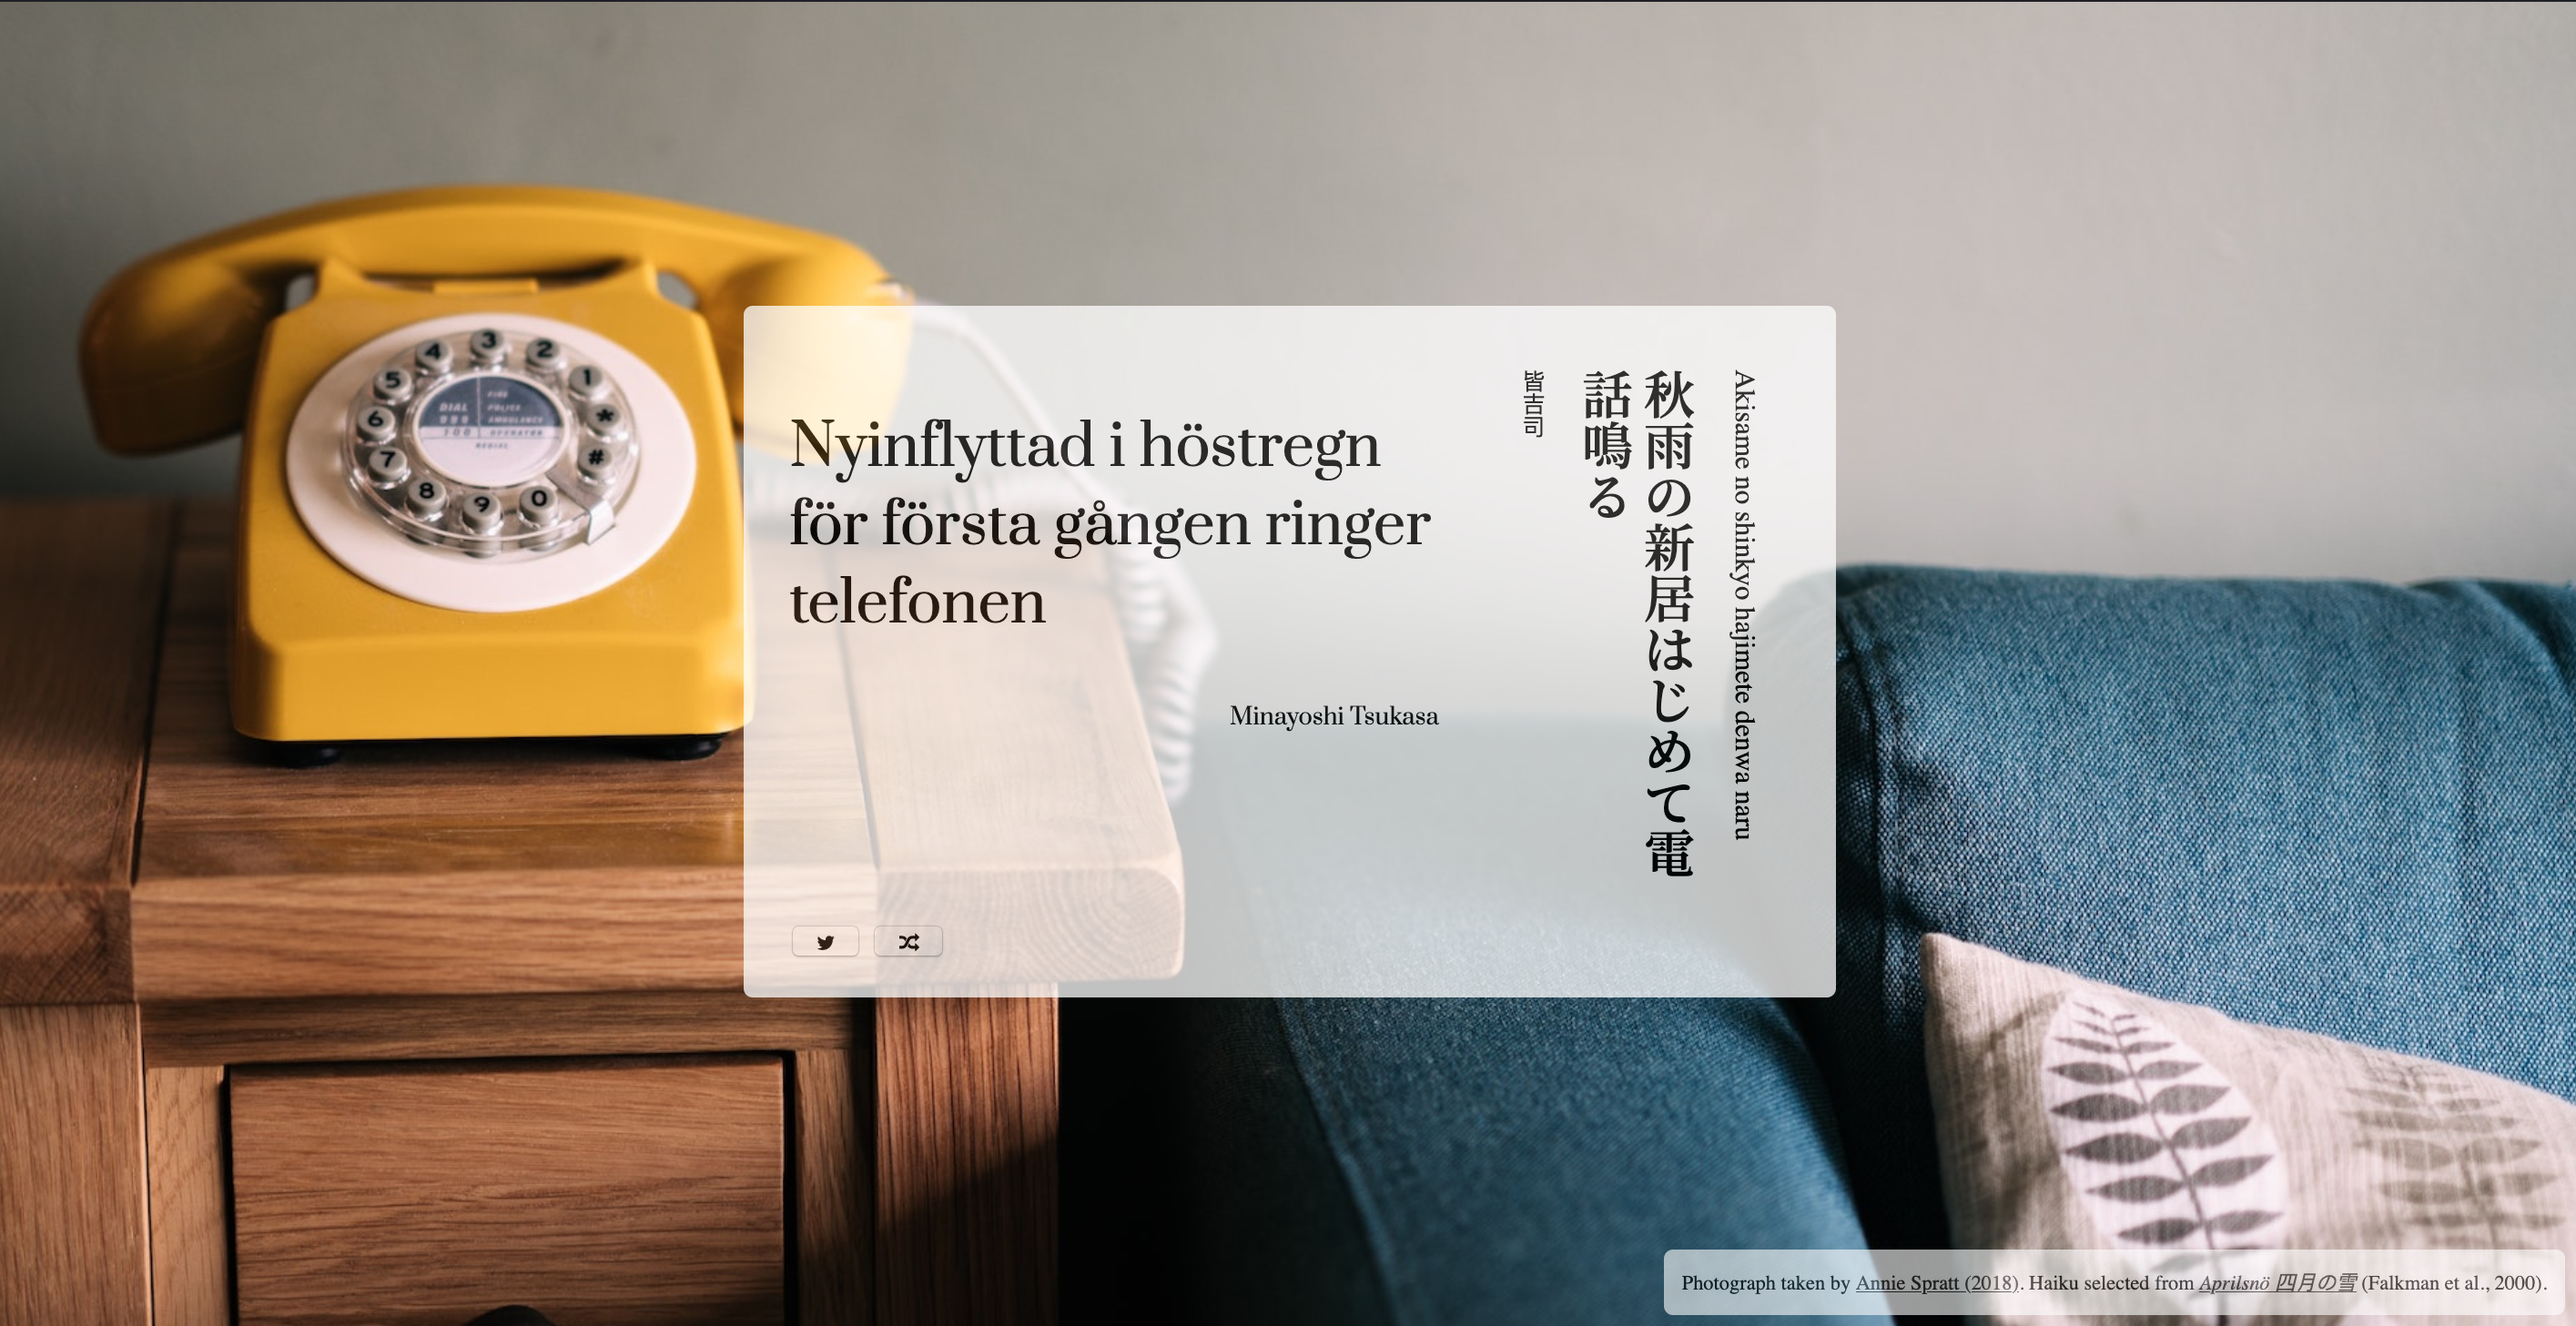
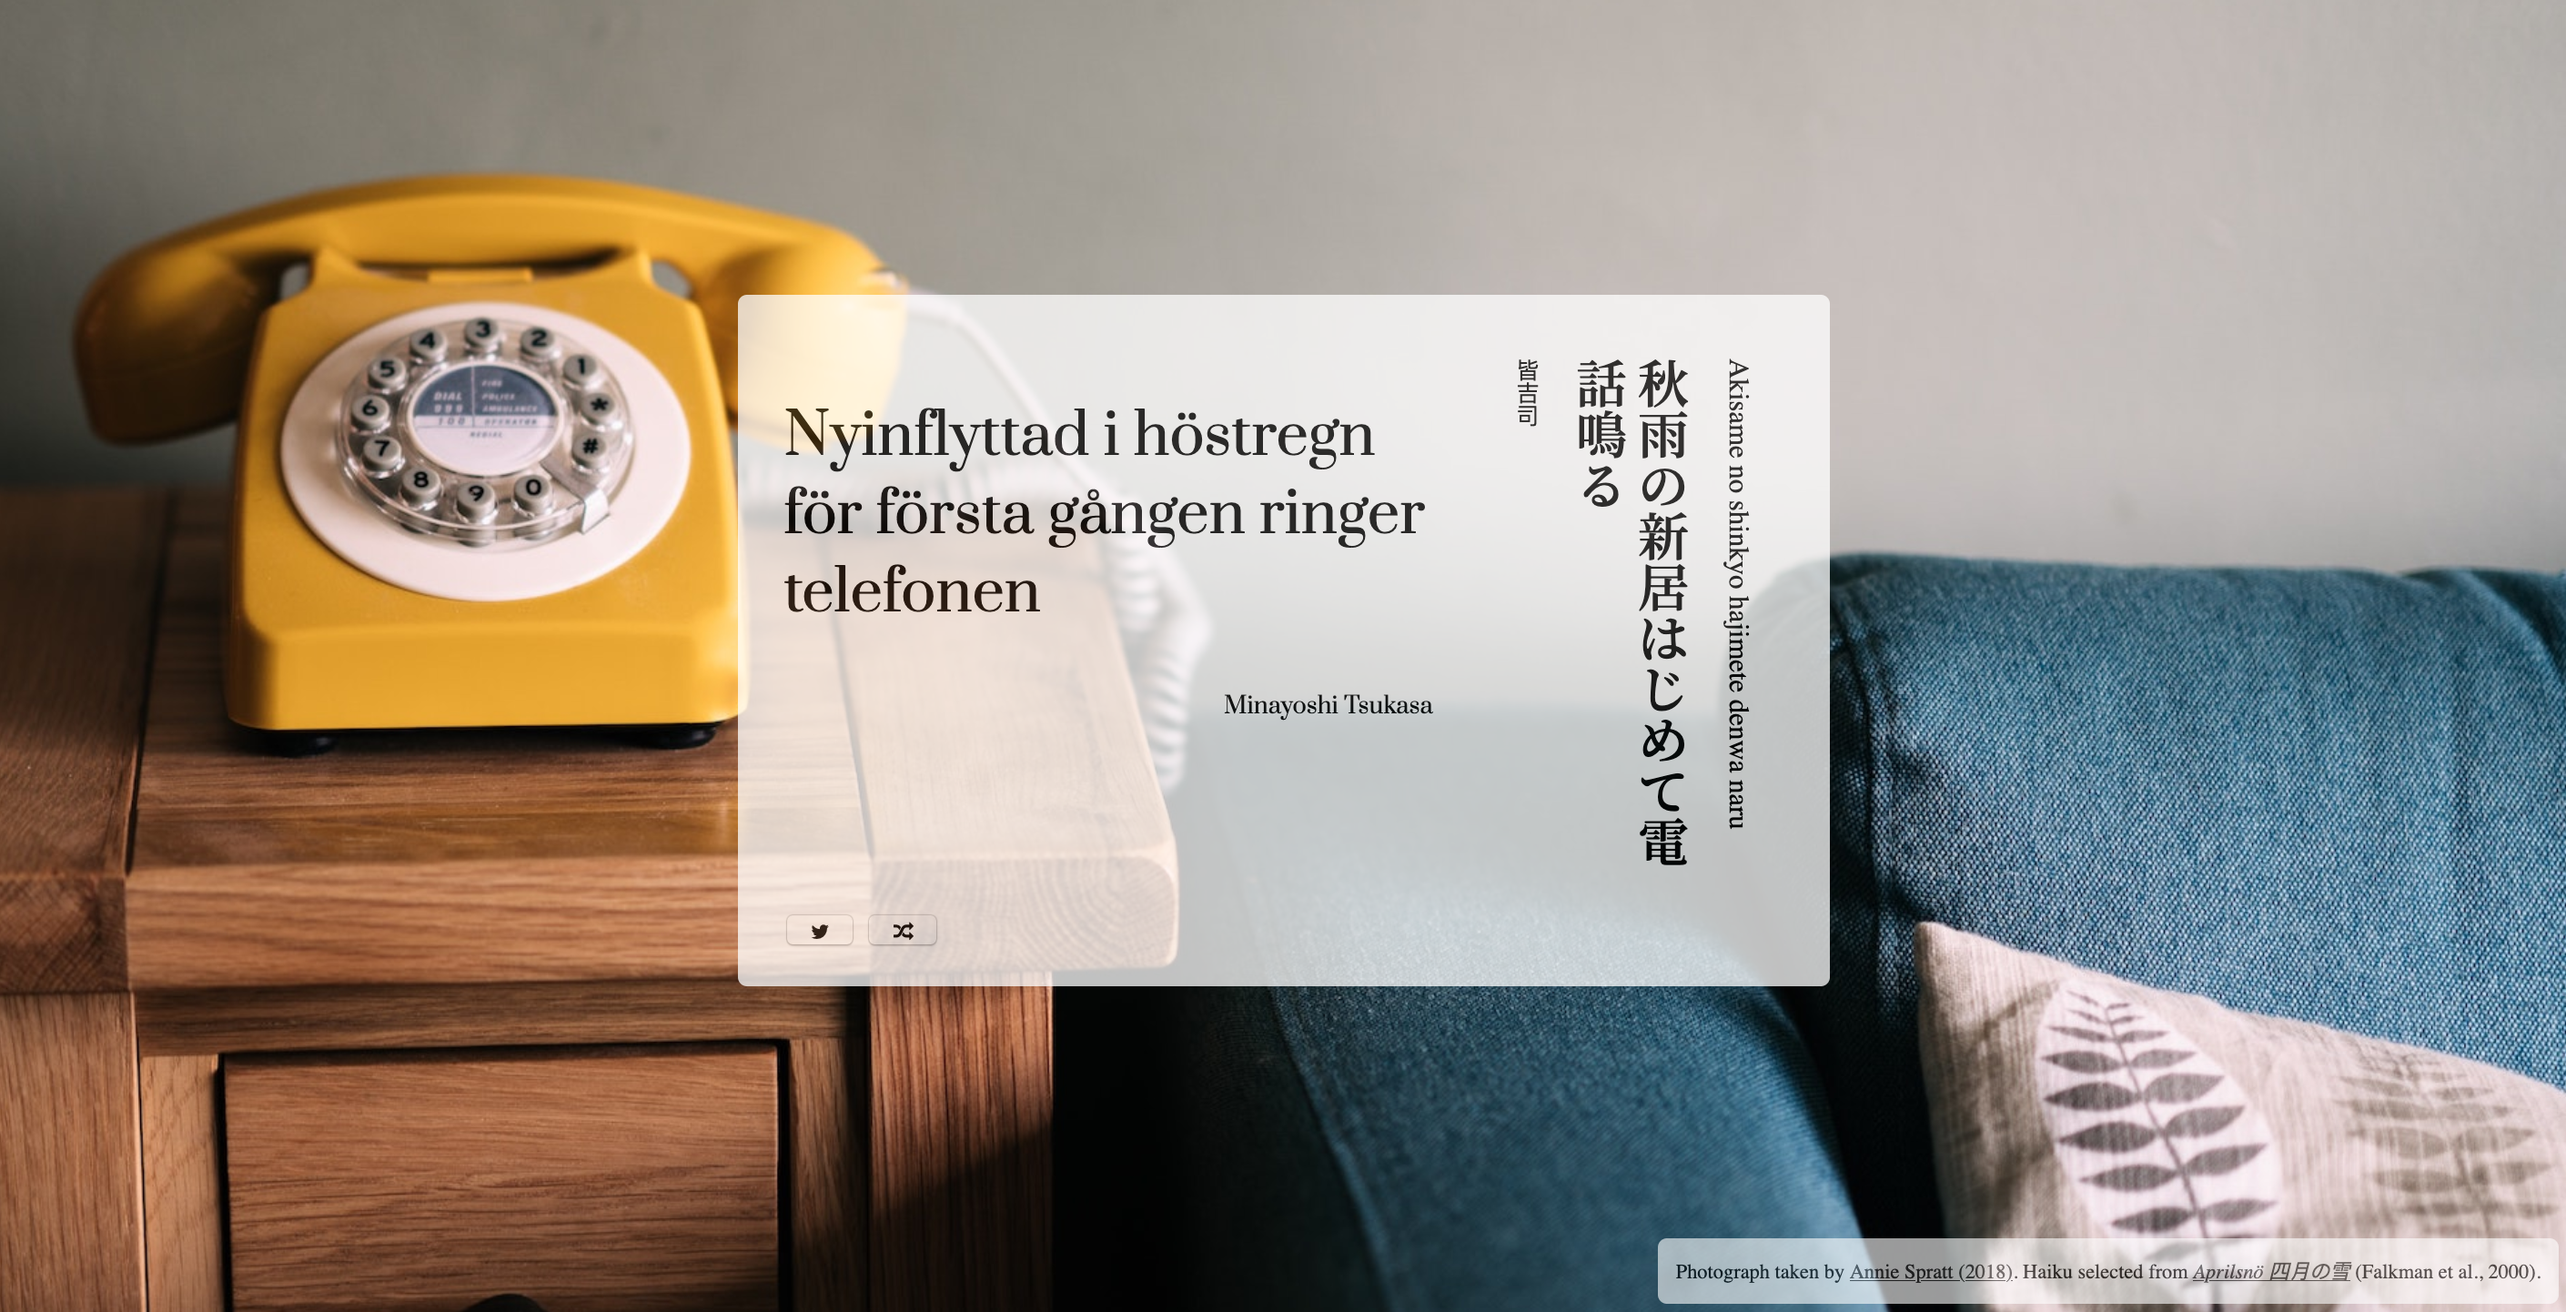
changed images

diff --git a/readme.md b/readme.md
@@ -6,16 +6,36 @@ My name is Tonghe Wang. I obtained MA in Computational Linguistics/Language Tech
 
 ### React
 
-*Random Quote*
+After learning HTML, CSS and vanilla JavaScript, I learned ReactJS and here are some of showcase projects.
 
-<img src="./images/profile_random_haiku.png" width="600px">
+*Pomodoro Timer*
 
-In addition:
+<img src="./images/profile_pomo_timer.png" width="250px">
 
-* I've finished Coursera course *[Neural Networks and Deep Learning](https://www.coursera.org/learn/neural-networks-deep-learning)* ([certificate](https://www.coursera.org/account/accomplishments/verify/FRE6BU2SZVGX)).
-* I learn about and practice algorithms and data structures by solving LeetCode challenges in Python and JavaScript/TypeScript  ([here are my solutions](https://github.com/t0nghe/learning/tree/master/LeetCode)).
 
-## Courses I Took Within Curriculum
+
+*Calculator*
+
+<img src="./images/profile_calculator.png" width="350px">
+
+Hello.
+
+Hello. 
+
+̦*Random Quote*
+
+Hello.
+
+<img src="./images/profile_random_haiku.png" width="800px">
+
+Hello.
+
+### In addition:
+
+* I finished Coursera course *[Neural Networks and Deep Learning](https://www.coursera.org/learn/neural-networks-deep-learning)* ([certificate](https://www.coursera.org/account/accomplishments/verify/FRE6BU2SZVGX)).
+* I refresh my knowledge on algorithms and data structures by solving LeetCode challenges in Python and JavaScript/TypeScript  ([here are my solutions](https://github.com/t0nghe/learning/tree/master/LeetCode)).
+
+## Courses Within Curriculum
 
 *Course name (credits, grade)*
 
@@ -31,7 +51,7 @@ In addition:
 * Natural Language Processing (15, G)
 * Syntactic Parsing (7.5, G)
 
-## Assignments and Projects
+## Assignments and Projects Within Curriculum
 
 **Master's Thesis**
 
